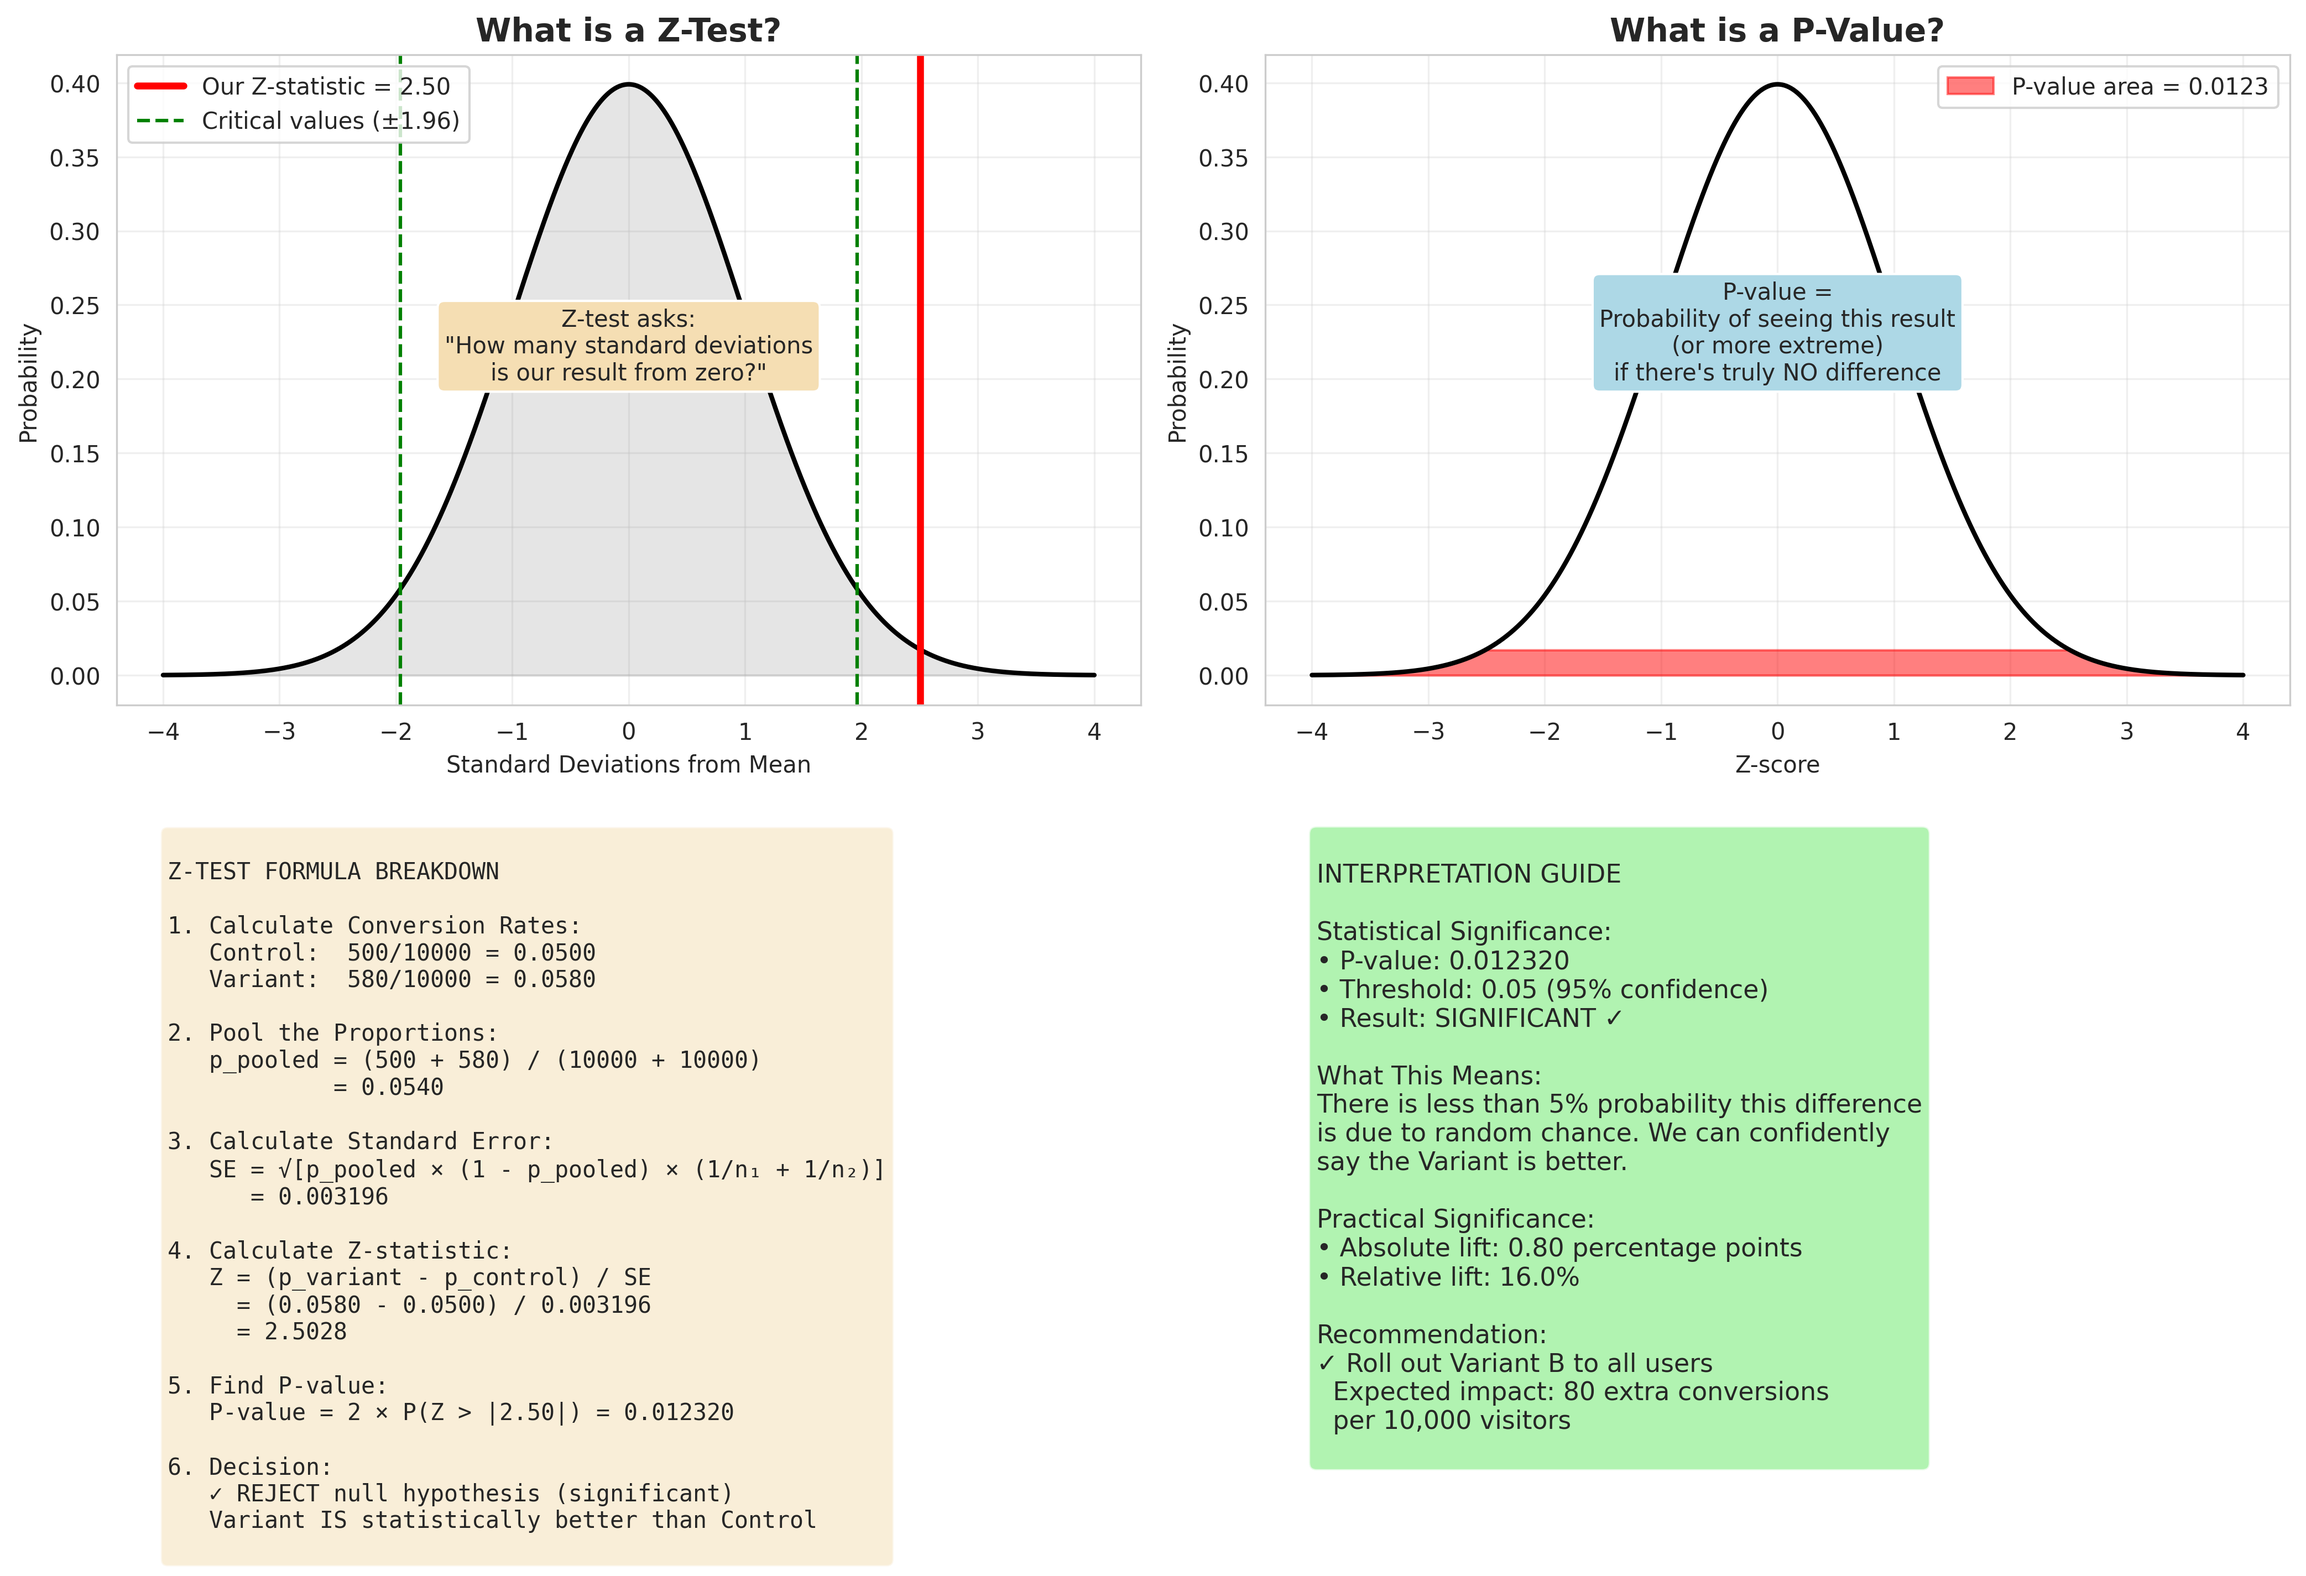
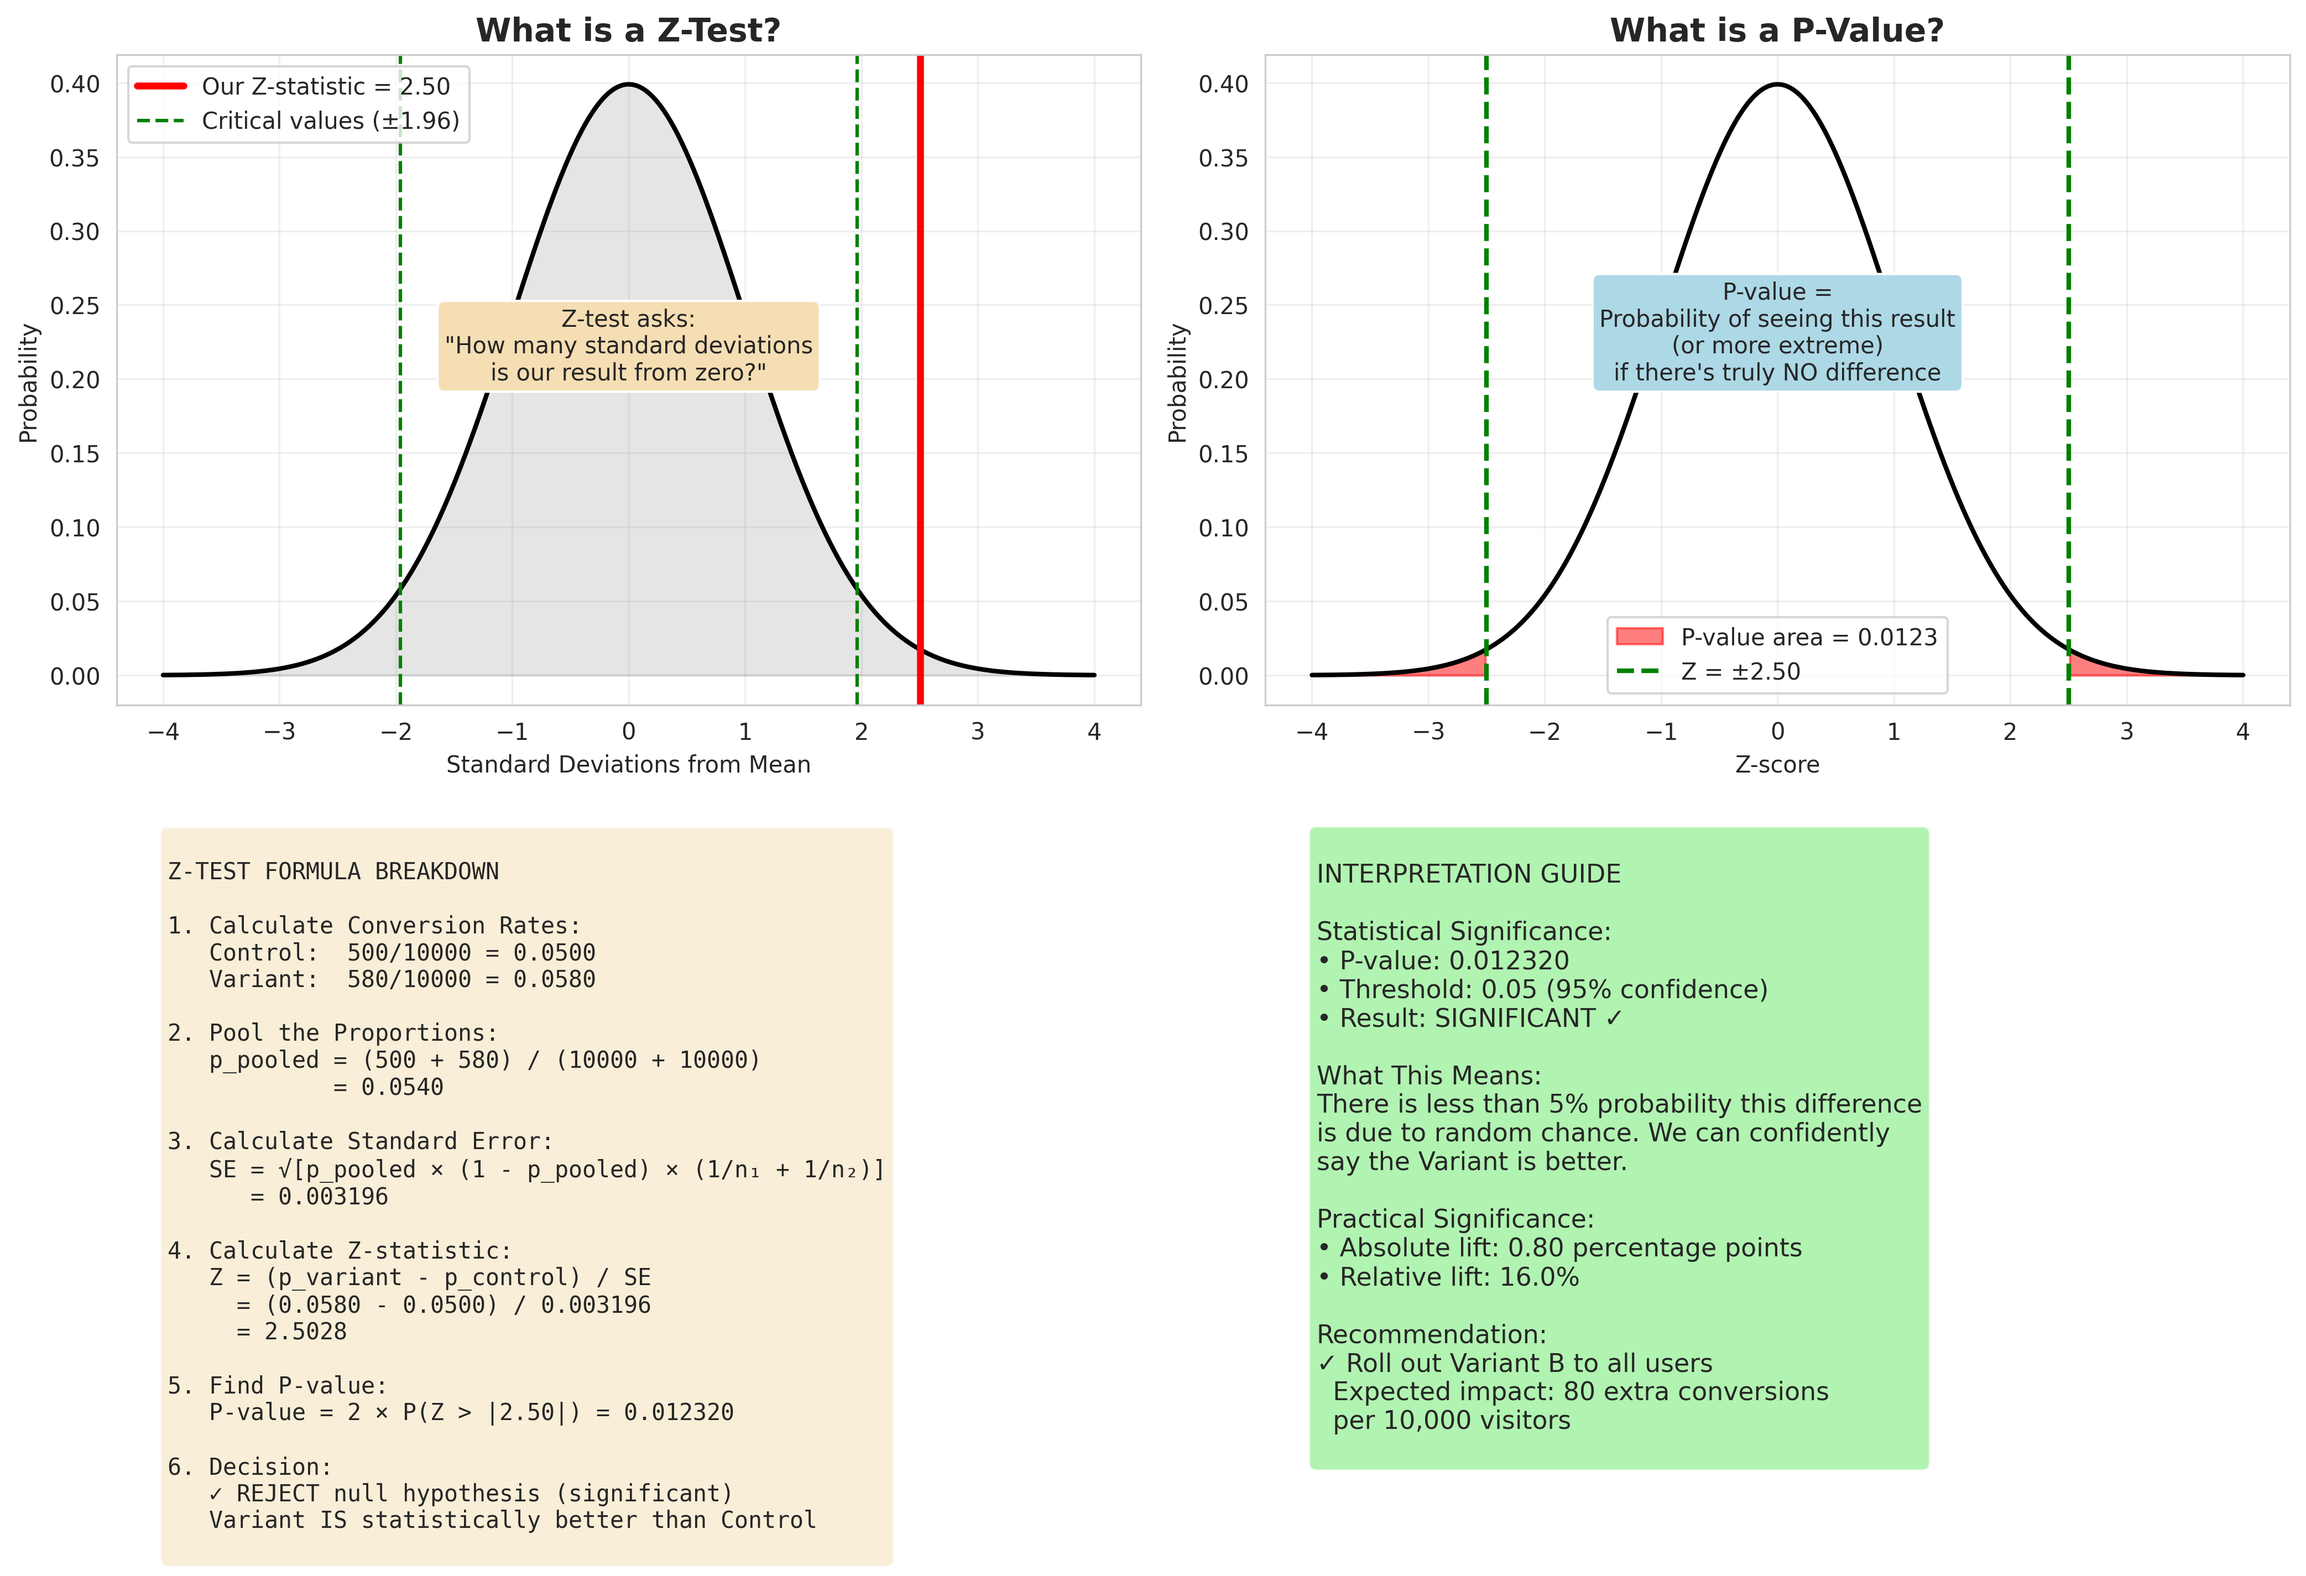
updated images
updated images

Changed region(s): [[0.6235, 0.3747, 0.9041, 0.4372], [0.8417, 0.0312, 0.9976, 0.0625]]

diff --git a/ab_test_visualizations.py b/ab_test_visualizations.py
@@ -112,27 +112,36 @@ ax3 = plt.subplot(3, 2, 3)
 plt.plot(x_z, y_z, 'k-', linewidth=2)
 plt.fill_between(x_z, y_z, alpha=0.1, color='gray')
 
-# Shade p-value area (two-tailed)
-x_p_left = x_z[x_z < -abs(z_stat)]
-x_p_right = x_z[x_z > abs(z_stat)]
-plt.fill_between(x_p_left, stats.norm.pdf(x_p_left), alpha=0.6, color='red', 
+# Shade p-value area (two-tailed) - vertical regions beyond z-statistic
+x_p_left = x_z[x_z <= -abs(z_stat)]
+x_p_right = x_z[x_z >= abs(z_stat)]
+plt.fill_between(x_p_left, 0, stats.norm.pdf(x_p_left), alpha=0.6, color='red', 
                  label=f'P-value = {p_value:.4f}')
-plt.fill_between(x_p_right, stats.norm.pdf(x_p_right), alpha=0.6, color='red')
+plt.fill_between(x_p_right, 0, stats.norm.pdf(x_p_right), alpha=0.6, color='red')
 
-plt.axvline(z_stat, color='green', linewidth=2, linestyle='--')
-plt.axvline(-z_stat, color='green', linewidth=2, linestyle='--')
+# Mark the z-statistic locations
+plt.axvline(z_stat, color='green', linewidth=3, linestyle='--', 
+            label=f'Z = ±{abs(z_stat):.2f}')
+plt.axvline(-z_stat, color='green', linewidth=3, linestyle='--')
+
+# Add arrows pointing to shaded regions
+plt.annotate('', xy=(-abs(z_stat), 0.2), xytext=(0, 0.2),
+            arrowprops=dict(arrowstyle='->', color='red', lw=2))
+plt.annotate('', xy=(abs(z_stat), 0.2), xytext=(0, 0.2),
+            arrowprops=dict(arrowstyle='->', color='red', lw=2))
+plt.text(0, 0.22, 'Extreme values', ha='center', fontsize=9, color='red')
 
 # Add text annotation
 result_text = "SIGNIFICANT" if p_value < 0.05 else "NOT SIGNIFICANT"
 color = "green" if p_value < 0.05 else "red"
-plt.text(0, max(y_z) * 0.8, f'{result_text}\n(p < 0.05)' if p_value < 0.05 else f'{result_text}\n(p ≥ 0.05)', 
+plt.text(0, max(y_z) * 0.7, f'{result_text}\n(p < 0.05)' if p_value < 0.05 else f'{result_text}\n(p ≥ 0.05)', 
          ha='center', fontsize=12, fontweight='bold', color=color,
          bbox=dict(boxstyle='round', facecolor='white', alpha=0.8))
 
 plt.xlabel('Z-score', fontsize=11)
 plt.ylabel('Probability Density', fontsize=11)
 plt.title('P-Value: Probability of Observing This Result by Chance', fontsize=13, fontweight='bold')
-plt.legend(fontsize=10)
+plt.legend(fontsize=10, loc='upper left')
 plt.grid(True, alpha=0.3)
 
 # ============================================================================
@@ -283,9 +292,14 @@ ax.text(0, max(y_simple) * 0.5,
 # What is p-value?
 ax = axes[0, 1]
 ax.plot(x_simple, y_simple, 'k-', linewidth=2)
-x_shade = x_simple[np.abs(x_simple) > abs(z_stat)]
-ax.fill_between(x_shade, stats.norm.pdf(x_shade), alpha=0.5, color='red', 
+# Shade the tails beyond the z-statistic (vertical regions)
+x_shade_left = x_simple[x_simple <= -abs(z_stat)]
+x_shade_right = x_simple[x_simple >= abs(z_stat)]
+ax.fill_between(x_shade_left, 0, stats.norm.pdf(x_shade_left), alpha=0.5, color='red')
+ax.fill_between(x_shade_right, 0, stats.norm.pdf(x_shade_right), alpha=0.5, color='red', 
                 label=f'P-value area = {p_value:.4f}')
+ax.axvline(z_stat, color='green', linewidth=2, linestyle='--', label=f'Z = ±{abs(z_stat):.2f}')
+ax.axvline(-z_stat, color='green', linewidth=2, linestyle='--')
 ax.set_title('What is a P-Value?', fontsize=14, fontweight='bold')
 ax.set_xlabel('Z-score')
 ax.set_ylabel('Probability')
